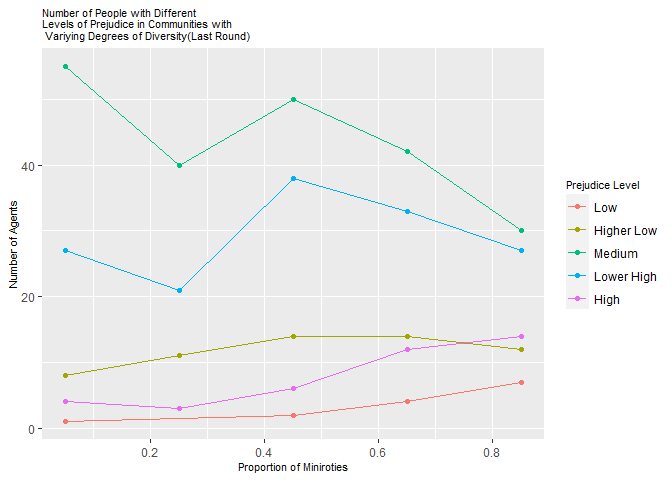
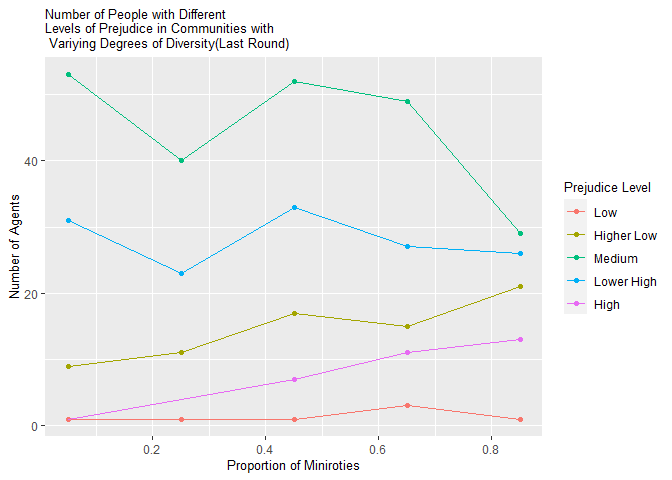
Final abm script and markdown

diff --git a/abm_sockult_exam.md b/abm_sockult_exam.md
@@ -895,7 +895,7 @@ H1 <- ggplot(all_majority, aes(frequency_interethnic_contact, col_other)) +
   coord_cartesian(xlim = c(0,150), ylim = c(0, 1)) +
   labs(x="Frequency of Interethnic Contact", y="Propensity to Collaborate") + 
   ggtitle("Propensity to Collaborate as Frequency\n of Interethnic Contact Increases") + 
-  theme(plot.title = element_text(size = 9), axis.title = element_text(size = 9))
+  theme(plot.title = element_text(size = 10), axis.title = element_text(size = 10))
 H1
 ```
 
@@ -931,7 +931,7 @@ h1 <- lmer(col_other ~ frequency_interethnic_contact + (1|id_2), all_majority)
 summary(h1)$coefficients[2,1]
 ```
 
-    ## [1] -0.000132001
+    ## [1] -0.0001267313
 
 ``` r
 summary(h1)
@@ -942,22 +942,22 @@ summary(h1)
     ## Formula: col_other ~ frequency_interethnic_contact + (1 | id_2)
     ##    Data: all_majority
     ## 
-    ## REML criterion at convergence: -102170.5
+    ## REML criterion at convergence: -99900.9
     ## 
     ## Scaled residuals: 
     ##     Min      1Q  Median      3Q     Max 
-    ## -6.0202 -0.0983  0.0307  0.3215  5.3839 
+    ## -6.0517 -0.0943  0.0353  0.3132  5.2781 
     ## 
     ## Random effects:
     ##  Groups   Name        Variance Std.Dev.
-    ##  id_2     (Intercept) 0.01691  0.1301  
-    ##  Residual             0.01347  0.1161  
+    ##  id_2     (Intercept) 0.01471  0.1213  
+    ##  Residual             0.01393  0.1180  
     ## Number of obs: 71250, groups:  id_2, 472
     ## 
     ## Fixed effects:
     ##                                 Estimate Std. Error         df t value Pr(>|t|)
-    ## (Intercept)                    4.811e-01  6.037e-03  4.817e+02  79.701  < 2e-16
-    ## frequency_interethnic_contact -1.320e-04  1.840e-05  7.119e+04  -7.173 7.44e-13
+    ## (Intercept)                    4.867e-01  5.638e-03  4.837e+02  86.330  < 2e-16
+    ## frequency_interethnic_contact -1.267e-04  1.870e-05  7.123e+04  -6.776 1.25e-11
     ##                                  
     ## (Intercept)                   ***
     ## frequency_interethnic_contact ***
@@ -966,7 +966,7 @@ summary(h1)
     ## 
     ## Correlation of Fixed Effects:
     ##             (Intr)
-    ## frqncy_ntr_ -0.107
+    ## frqncy_ntr_ -0.116
 
 H1: Descriptive Statistics:
 
@@ -986,9 +986,9 @@ H1_desc
     ## # A tibble: 3 x 5
     ##   `Level of Interethnic contact` `Mean POC`    SD `Minimum POC` `Maximum POC`
     ##   <chr>                               <dbl> <dbl>         <dbl>         <dbl>
-    ## 1 Low                                 0.486 0.161             0             1
-    ## 2 Medium                              0.458 0.195             0             1
-    ## 3 High                                0.425 0.233             0             1
+    ## 1 Low                                 0.492 0.155             0             1
+    ## 2 Medium                              0.463 0.194             0             1
+    ## 3 High                                0.434 0.216             0             1
 
 ``` r
 # Save as png file
@@ -1106,21 +1106,21 @@ H2_desc
     ## # Groups:   Proportion of Minority [5]
     ##    `Proportion of ~ `Levels of nega~ `Mean POC`    SD `Minimum POC`
     ##               <dbl> <fct>                 <dbl> <dbl>         <dbl>
-    ##  1             0.05 Low                   0.412 0.138         0.189
-    ##  2             0.05 Medium                0.395 0.127         0.078
-    ##  3             0.05 High                  0.37  0.117         0.079
-    ##  4             0.25 Low                   0.429 0.1           0.279
-    ##  5             0.25 Medium                0.387 0.139         0    
-    ##  6             0.25 High                  0.379 0.141         0.04 
-    ##  7             0.45 Low                   0.475 0.113         0.251
-    ##  8             0.45 Medium                0.374 0.153         0    
-    ##  9             0.45 High                  0.368 0.141         0    
-    ## 10             0.65 Low                   0.483 0.164         0.162
-    ## 11             0.65 Medium                0.357 0.175         0    
-    ## 12             0.65 High                  0.309 0.159         0    
-    ## 13             0.85 Low                   0.514 0.2           0.079
-    ## 14             0.85 Medium                0.315 0.215         0    
-    ## 15             0.85 High                  0.267 0.189         0    
+    ##  1             0.05 Low                   0.381 0.088         0.279
+    ##  2             0.05 Medium                0.371 0.138         0.079
+    ##  3             0.05 High                  0.38  0.112         0.078
+    ##  4             0.25 Low                   0.394 0.144         0.168
+    ##  5             0.25 Medium                0.398 0.135         0    
+    ##  6             0.25 High                  0.358 0.126         0    
+    ##  7             0.45 Low                   0.41  0.125         0.179
+    ##  8             0.45 Medium                0.378 0.151         0    
+    ##  9             0.45 High                  0.381 0.137         0    
+    ## 10             0.65 Low                   0.457 0.179         0.14 
+    ## 11             0.65 Medium                0.369 0.167         0    
+    ## 12             0.65 High                  0.348 0.152         0    
+    ## 13             0.85 Low                   0.596 0.204         0.179
+    ## 14             0.85 Medium                0.324 0.212         0    
+    ## 15             0.85 High                  0.223 0.194         0    
     ## # ... with 1 more variable: `Maximum POC` <dbl>
 
 ``` r
@@ -1186,7 +1186,7 @@ H3<- ggplot(majority_count, aes(x = prop_minority, y = n, colour=prejudice_level
   labs(x="Proportion of Miniroties", y="Number of Agents") + 
   ggtitle("Number of People with Different \nLevels of Prejudice in Communities with\n Variying Degrees of Diversity(Last Round)") + 
   scale_colour_discrete("Prejudice Level") +
-  theme(plot.title = element_text(size = 8), axis.title = element_text(size = 8), legend.title = element_text(size=8))
+  theme(plot.title = element_text(size = 10), axis.title = element_text(size = 10), legend.title = element_text(size=10))
 
 H3
 ```
